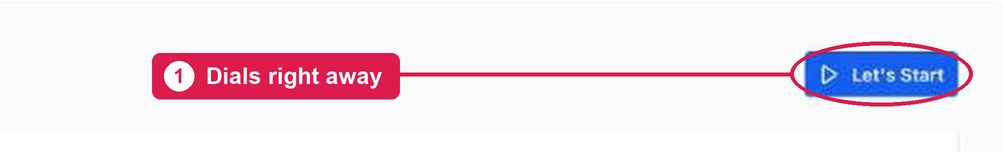
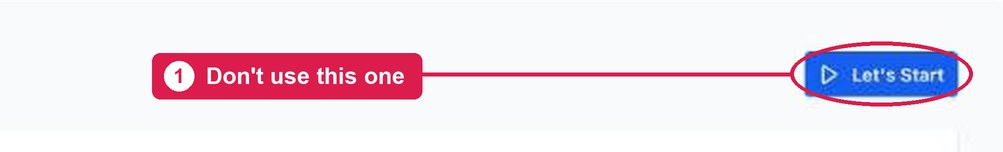
Call desk: one way to work a call: open the lead, double dial, delete the call in Manual Actions

Changed region(s): [[0.2164, 0.3421, 0.4327, 0.6579]]

diff --git a/calldesk/index.html b/calldesk/index.html
@@ -275,7 +275,9 @@ pre.format{margin:0;font:14px/1.6 ui-monospace,Menlo,monospace;background:var(--
     <h2>Rules that never change</h2>
     <ul>
       <li>Say you're with the client. Never say BuildSignals.</li>
+      <li>Click the lead's name and read their info before you call. Don't use "Let's Start."</li>
       <li>Always double dial. No answer? Call right back.</li>
+      <li>No answer after you double dial? Delete the call in Manual Actions so the workflow moves on.</li>
       <li>They pick up and hang up fast? Call a 3rd time.</li>
       <li>Call from the client's number.</li>
       <li>Only call and text from the CRM, never your own phone.</li>
@@ -474,7 +476,7 @@ pre.format{margin:0;font:14px/1.6 ui-monospace,Menlo,monospace;background:var(--
     <div class="tw"><table>
       <thead><tr><th>What happened</th><th>What you do</th><th>The stage</th></tr></thead>
       <tbody>
-        <tr><td class="q">No answer</td><td>Mark the call done in Manual Actions. The CRM texts them and adds your next call by itself. <b>Still tell the owner.</b> Send the details and say it's unconfirmed: "Here's a new appointment: Unconfirmed but will send you more info once we speak to her." Then the details.</td><td>Leave it on <b>Booked</b></td></tr>
+        <tr><td class="q">No answer</td><td>Delete the call in Manual Actions. The CRM texts them and adds your next call by itself. <b>Still tell the owner.</b> Send the details and say it's unconfirmed: "Here's a new appointment: Unconfirmed but will send you more info once we speak to her." Then the details.</td><td>Leave it on <b>Booked</b></td></tr>
         <tr><td class="q">They text YES</td><td>The CRM stops the confirm calls by itself. Then do steps 4, 5 and 6.</td><td><b>Booked - Confirmed</b></td></tr>
         <tr><td class="q">They text back but won't pick up</td><td>Ask your questions by text. Keep it short. Then do steps 4, 5 and 6.</td><td><b>Booked - Confirmed</b></td></tr>
         <tr><td class="q">They want a new time</td><td>Follow <a href="#reschedule" data-go="reschedule">Rescheduling</a>.</td><td><b>Booked - Confirmed</b></td></tr>
@@ -545,7 +547,7 @@ pre.format{margin:0;font:14px/1.6 ui-monospace,Menlo,monospace;background:var(--
         <div class="body"><p><b>Goal:</b> call when you said you would. Read the note first.</p><blockquote>"Hey Maria, it's [your name] with Valencia. You said today was a good day to talk about the bathroom. Still a good time?"</blockquote><p>Then keep going from where you left off.</p></div></div>
 
       <div class="stage"><div><h3>Follow-up day, no answer</h3><p class="note">You called on the follow-up day and they didn't pick up</p></div>
-        <div class="body"><p><b>Goal:</b> try once more. Double dial. No answer? Don't text. The workflow texts them for us.</p><p><b>In the CRM:</b> mark the call done in Manual Actions. That's it. About 10 minutes later, the CRM starts about a week of texts and calls again by itself.</p><p><b>If you reached them:</b> book them, or set a new <b>Follow Up Date</b>. Do it within 10 minutes of marking the call done, so they don't get those texts.</p><p><small>Want the texts to start right now? Add the <b>lead nurturing</b> tag yourself.</small></p></div></div>
+        <div class="body"><p><b>Goal:</b> try once more. Double dial. No answer? Don't text. The workflow texts them for us.</p><p><b>In the CRM:</b> delete the call in Manual Actions. That's it. About 10 minutes later, the CRM starts about a week of texts and calls again by itself.</p><p><b>If you reached them:</b> book them, or set a new <b>Follow Up Date</b>. Do it within 10 minutes of deleting the call, so they don't get those texts.</p><p><small>Want the texts to start right now? Add the <b>lead nurturing</b> tag yourself.</small></p></div></div>
     </div>
   </div>
 
@@ -666,29 +668,41 @@ pre.format{margin:0;font:14px/1.6 ui-monospace,Menlo,monospace;background:var(--
   </div>
 
   <div class="steps">
-    <div class="step"><div class="text"><h3>1. Open Manual Actions</h3><p>Click <b>Conversations</b>, then <b>Manual Actions</b>. This is your call list. Call new leads first, then self-booked leads, then reschedules, then everyone else.</p>
-      <p class="caution">"Let's Start" calls right away. If a box asks "Call Anyway?" because it's late for them, press Cancel.</p></div>
-      <div class="shots"><a href="img/guide-manual-actions.jpg" target="_blank"><img src="img/guide-manual-actions.jpg" alt="Manual Actions tab and the workflow name circled" loading="lazy"></a><a href="img/guide-lets-start.jpg" target="_blank"><img src="img/guide-lets-start.jpg" alt="Let's Start button circled" loading="lazy"></a><a href="img/guide-call-prompt.jpg" target="_blank"><img src="img/guide-call-prompt.jpg" alt="Late-night call warning with Cancel circled" loading="lazy"></a></div></div>
+    <div class="step"><div class="text"><h3>1. Open Manual Actions</h3><p>Click <b>Conversations</b>, then <b>Manual Actions</b>. This is your call list. Call new leads first, then self-booked leads, then reschedules, then everyone else.</p></div>
+      <div class="shots"><a href="img/guide-manual-actions.jpg" target="_blank"><img src="img/guide-manual-actions.jpg" alt="Manual Actions tab and the workflow name circled" loading="lazy"></a></div></div>
 
-    <div class="step"><div class="text"><h3>2. Call from the client's number</h3><p>Open the dialer. Click <b>Change</b> next to "Calling From" and pick the client's number. The numbers are on the <a href="#clients" data-go="clients">Clients</a> page.</p>
+    <div class="step"><div class="text"><h3>2. Work every call this one way</h3><p>It's more clicks, but you see who you're calling and you call from the right number.</p>
+      <ol><li>Click the lead's <b>name</b> in the list. Their contact opens.</li>
+        <li>Read who they are: what they asked for, their tags, and past calls and texts.</li>
+        <li>Open the dialer and pick the client's number. See step 3.</li>
+        <li>Double dial. They pick up and hang up fast? Call a 3rd time. Leave a voicemail if it's a brand new lead.</li>
+        <li>Talked to them? Finish the call and set the stage first. See step 5.</li>
+        <li>Go back to Manual Actions. Click the <b>trash can</b> on that lead's row and confirm.</li></ol>
+      <p>That deletes only the call on your list. If they didn't answer, the workflow moves on to its next step by itself. Don't text them. The workflow does that too.</p>
+      <p class="caution">Don't use "Let's Start." It dials right away, before you've seen who they are.</p>
+      <p class="caution">Only use the trash can in Manual Actions. The trash can next to their name on the contact page deletes the whole contact. Never click that one.</p>
+      <p class="muted">If a box asks "Call Anyway?" because it's late for them, press Cancel.</p></div>
+      <div class="shots"><a href="img/guide-ma-name-trash.jpg" target="_blank"><img src="img/guide-ma-name-trash.jpg" alt="Lead name and the trash can on the row circled" loading="lazy"></a><a href="img/guide-contact-review.jpg" target="_blank"><img src="img/guide-contact-review.jpg" alt="Contact page with tags and past calls circled, and the contact trash can marked never click" loading="lazy"></a><a href="img/guide-lets-start.jpg" target="_blank"><img src="img/guide-lets-start.jpg" alt="Let's Start button circled, don't use it" loading="lazy"></a><a href="img/guide-call-prompt.jpg" target="_blank"><img src="img/guide-call-prompt.jpg" alt="Late-night call warning with Cancel circled" loading="lazy"></a></div></div>
+
+    <div class="step"><div class="text"><h3>3. Call from the client's number</h3><p>Open the dialer. Click <b>Change</b> next to "Calling From" and pick the client's number. The numbers are on the <a href="#clients" data-go="clients">Clients</a> page.</p>
       <p class="caution">Never use a number marked OLD SPAM.</p></div>
       <div class="shots"><a href="img/guide-dialer.jpg" target="_blank"><img src="img/guide-dialer.jpg" alt="Dialer button and Change circled" loading="lazy"></a><a href="img/guide-number-pick.jpg" target="_blank"><img src="img/guide-number-pick.jpg" alt="Number search and the client's number circled" loading="lazy"></a></div></div>
 
-    <div class="step"><div class="text"><h3>3. Book the visit</h3><p>On the contact, click the calendar icon, then <b>Add Appointment</b>. Every step is on the <a href="#book" data-go="book">Book a visit</a> page.</p>
+    <div class="step"><div class="text"><h3>4. Book the visit</h3><p>On the contact, click the calendar icon, then <b>Add Appointment</b>. Every step is on the <a href="#book" data-go="book">Book a visit</a> page.</p>
       <p class="caution">The box opens on the wrong client. Every time, pick the client's calendar, your name, and the time zone.</p></div>
       <div class="shots"><a href="img/guide-book-open.jpg" target="_blank"><img src="img/guide-book-open.jpg" alt="Calendar icon and Add Appointment circled" loading="lazy"></a><a href="img/guide-book-pick.jpg" target="_blank"><img src="img/guide-book-pick.jpg" alt="Picking the client's calendar" loading="lazy"></a></div></div>
 
-    <div class="step"><div class="text"><h3>4. Set the stage</h3><p>The stage tells everyone where the lead is. On the contact, click <b>Actions</b>, the three dots, then <b>View Opportunity details</b>. Pick the <b>Stage</b> and click <b>Update</b>.</p>
+    <div class="step"><div class="text"><h3>5. Set the stage</h3><p>The stage tells everyone where the lead is. On the contact, click <b>Actions</b>, the three dots, then <b>View Opportunity details</b>. Pick the <b>Stage</b> and click <b>Update</b>.</p>
       <ul><li>You talked and they said yes: <b>Booked - Confirmed</b></li><li>Booked, but you haven't reached them: leave it on <b>Booked</b></li><li>Not interested: <b>Dead</b></li></ul></div>
       <div class="shots"><a href="img/guide-opp-open.jpg" target="_blank"><img src="img/guide-opp-open.jpg" alt="Actions, three dots and View Opportunity details circled" loading="lazy"></a><a href="img/guide-stage-choose.jpg" target="_blank"><img src="img/guide-stage-choose.jpg" alt="Stage list with Booked, Booked - Confirmed, Dead and Update circled" loading="lazy"></a></div></div>
 
-    <div class="step"><div class="text"><h3>5. Tags</h3><ul>
+    <div class="step"><div class="text"><h3>6. Tags</h3><ul>
         <li>A tag is a label on a contact. Most get added for you, like appt-confirmed.</li>
         <li>Never add lead nurturing to someone who has a visit booked.</li>
         <li>Added the wrong tag? Click the x on it and tell Leo.</li></ul></div>
       <div class="shots"><a href="img/guide-tags.jpg" target="_blank"><img src="img/guide-tags.jpg" alt="Tags and the x on a tag circled" loading="lazy"></a></div></div>
 
-    <div class="step"><div class="text"><h3>6. Tell the owner</h3><p>Send the visit details in the client's group chat in <a href="#sendblue" data-go="sendblue">Sendblue</a>. The Lead Profile on the contact has what you need.</p>
+    <div class="step"><div class="text"><h3>7. Tell the owner</h3><p>Send the visit details in the client's group chat in <a href="#sendblue" data-go="sendblue">Sendblue</a>. The Lead Profile on the contact has what you need.</p>
       <button class="btn" data-copy="format">Copy format</button></div>
       <div class="shots"><pre class="format" id="format">Here's a new appointment:
 • Name: Maria Lopez
@@ -698,7 +712,7 @@ pre.format{margin:0;font:14px/1.6 ui-monospace,Menlo,monospace;background:var(--
 • Estimate Appointment: Thu Nov 5, 10:00 AM
 • Notes: Husband will be there. Wants it done before the holidays.</pre><p class="muted">Example lead.</p></div></div>
 
-    <div class="step"><div class="text"><h3>7. Answer texts</h3><p>When a lead texts back, it shows up in Conversations. Answer fast and keep it short.</p></div>
+    <div class="step"><div class="text"><h3>8. Answer texts</h3><p>When a lead texts back, it shows up in Conversations. Answer fast and keep it short.</p></div>
       <div class="shots"><a href="img/guide-inbox.jpg" target="_blank"><img src="img/guide-inbox.jpg" alt="Conversations and Unread circled" loading="lazy"></a><a href="img/guide-inbox-reply.jpg" target="_blank"><img src="img/guide-inbox-reply.jpg" alt="Message box circled" loading="lazy"></a></div></div>
   </div>
 </section>
